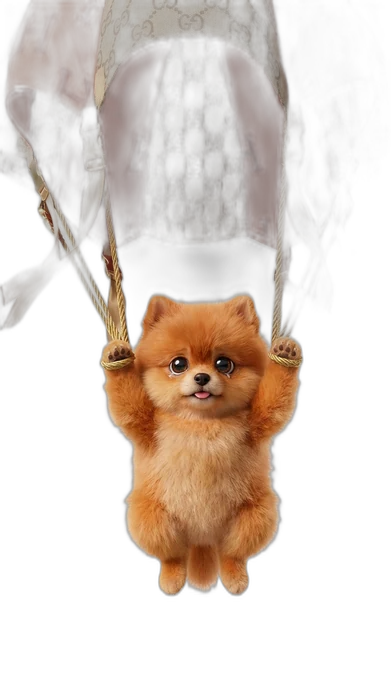
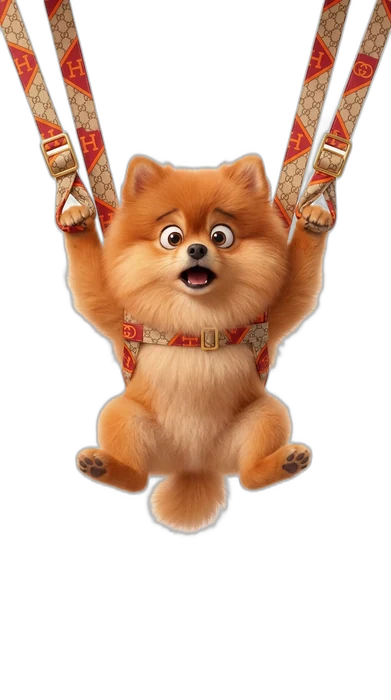
fix(pomerania): postura humanizada sentada + cara expresiva + caída 6s

diff --git a/frontend/index.html b/frontend/index.html
@@ -2411,17 +2411,17 @@ body{
   opacity: 0;
   transform: translateY(-30vh);
   animation:
-    pomerania-fall 14s linear infinite,
-    pomerania-swing 2s ease-in-out infinite;
+    pomerania-fall 16s linear infinite,
+    pomerania-swing 2.4s ease-in-out infinite;
   filter: drop-shadow(0 6px 14px rgba(0,0,0,0.30));
   will-change: transform, opacity;
 }
 @keyframes pomerania-fall {
   0%   { top: -130px; opacity: 0; }
-  3%   { opacity: 1; }
-  /* 4s caída visible (≈ 4/14 = 28.5%) */
-  28.5% { top: 100%; opacity: 1; }
-  30%  { top: 100%; opacity: 0; }
+  2%   { opacity: 1; }
+  /* 6s caída visible (≈ 6/16 = 37.5%) */
+  37.5% { top: 100%; opacity: 1; }
+  39%  { top: 100%; opacity: 0; }
   100% { top: 100%; opacity: 0; }
 }
 @keyframes pomerania-swing {

diff --git a/frontend/teo-mariscal-v3.html b/frontend/teo-mariscal-v3.html
@@ -2411,17 +2411,17 @@ body{
   opacity: 0;
   transform: translateY(-30vh);
   animation:
-    pomerania-fall 14s linear infinite,
-    pomerania-swing 2s ease-in-out infinite;
+    pomerania-fall 16s linear infinite,
+    pomerania-swing 2.4s ease-in-out infinite;
   filter: drop-shadow(0 6px 14px rgba(0,0,0,0.30));
   will-change: transform, opacity;
 }
 @keyframes pomerania-fall {
   0%   { top: -130px; opacity: 0; }
-  3%   { opacity: 1; }
-  /* 4s caída visible (≈ 4/14 = 28.5%) */
-  28.5% { top: 100%; opacity: 1; }
-  30%  { top: 100%; opacity: 0; }
+  2%   { opacity: 1; }
+  /* 6s caída visible (≈ 6/16 = 37.5%) */
+  37.5% { top: 100%; opacity: 1; }
+  39%  { top: 100%; opacity: 0; }
   100% { top: 100%; opacity: 0; }
 }
 @keyframes pomerania-swing {
